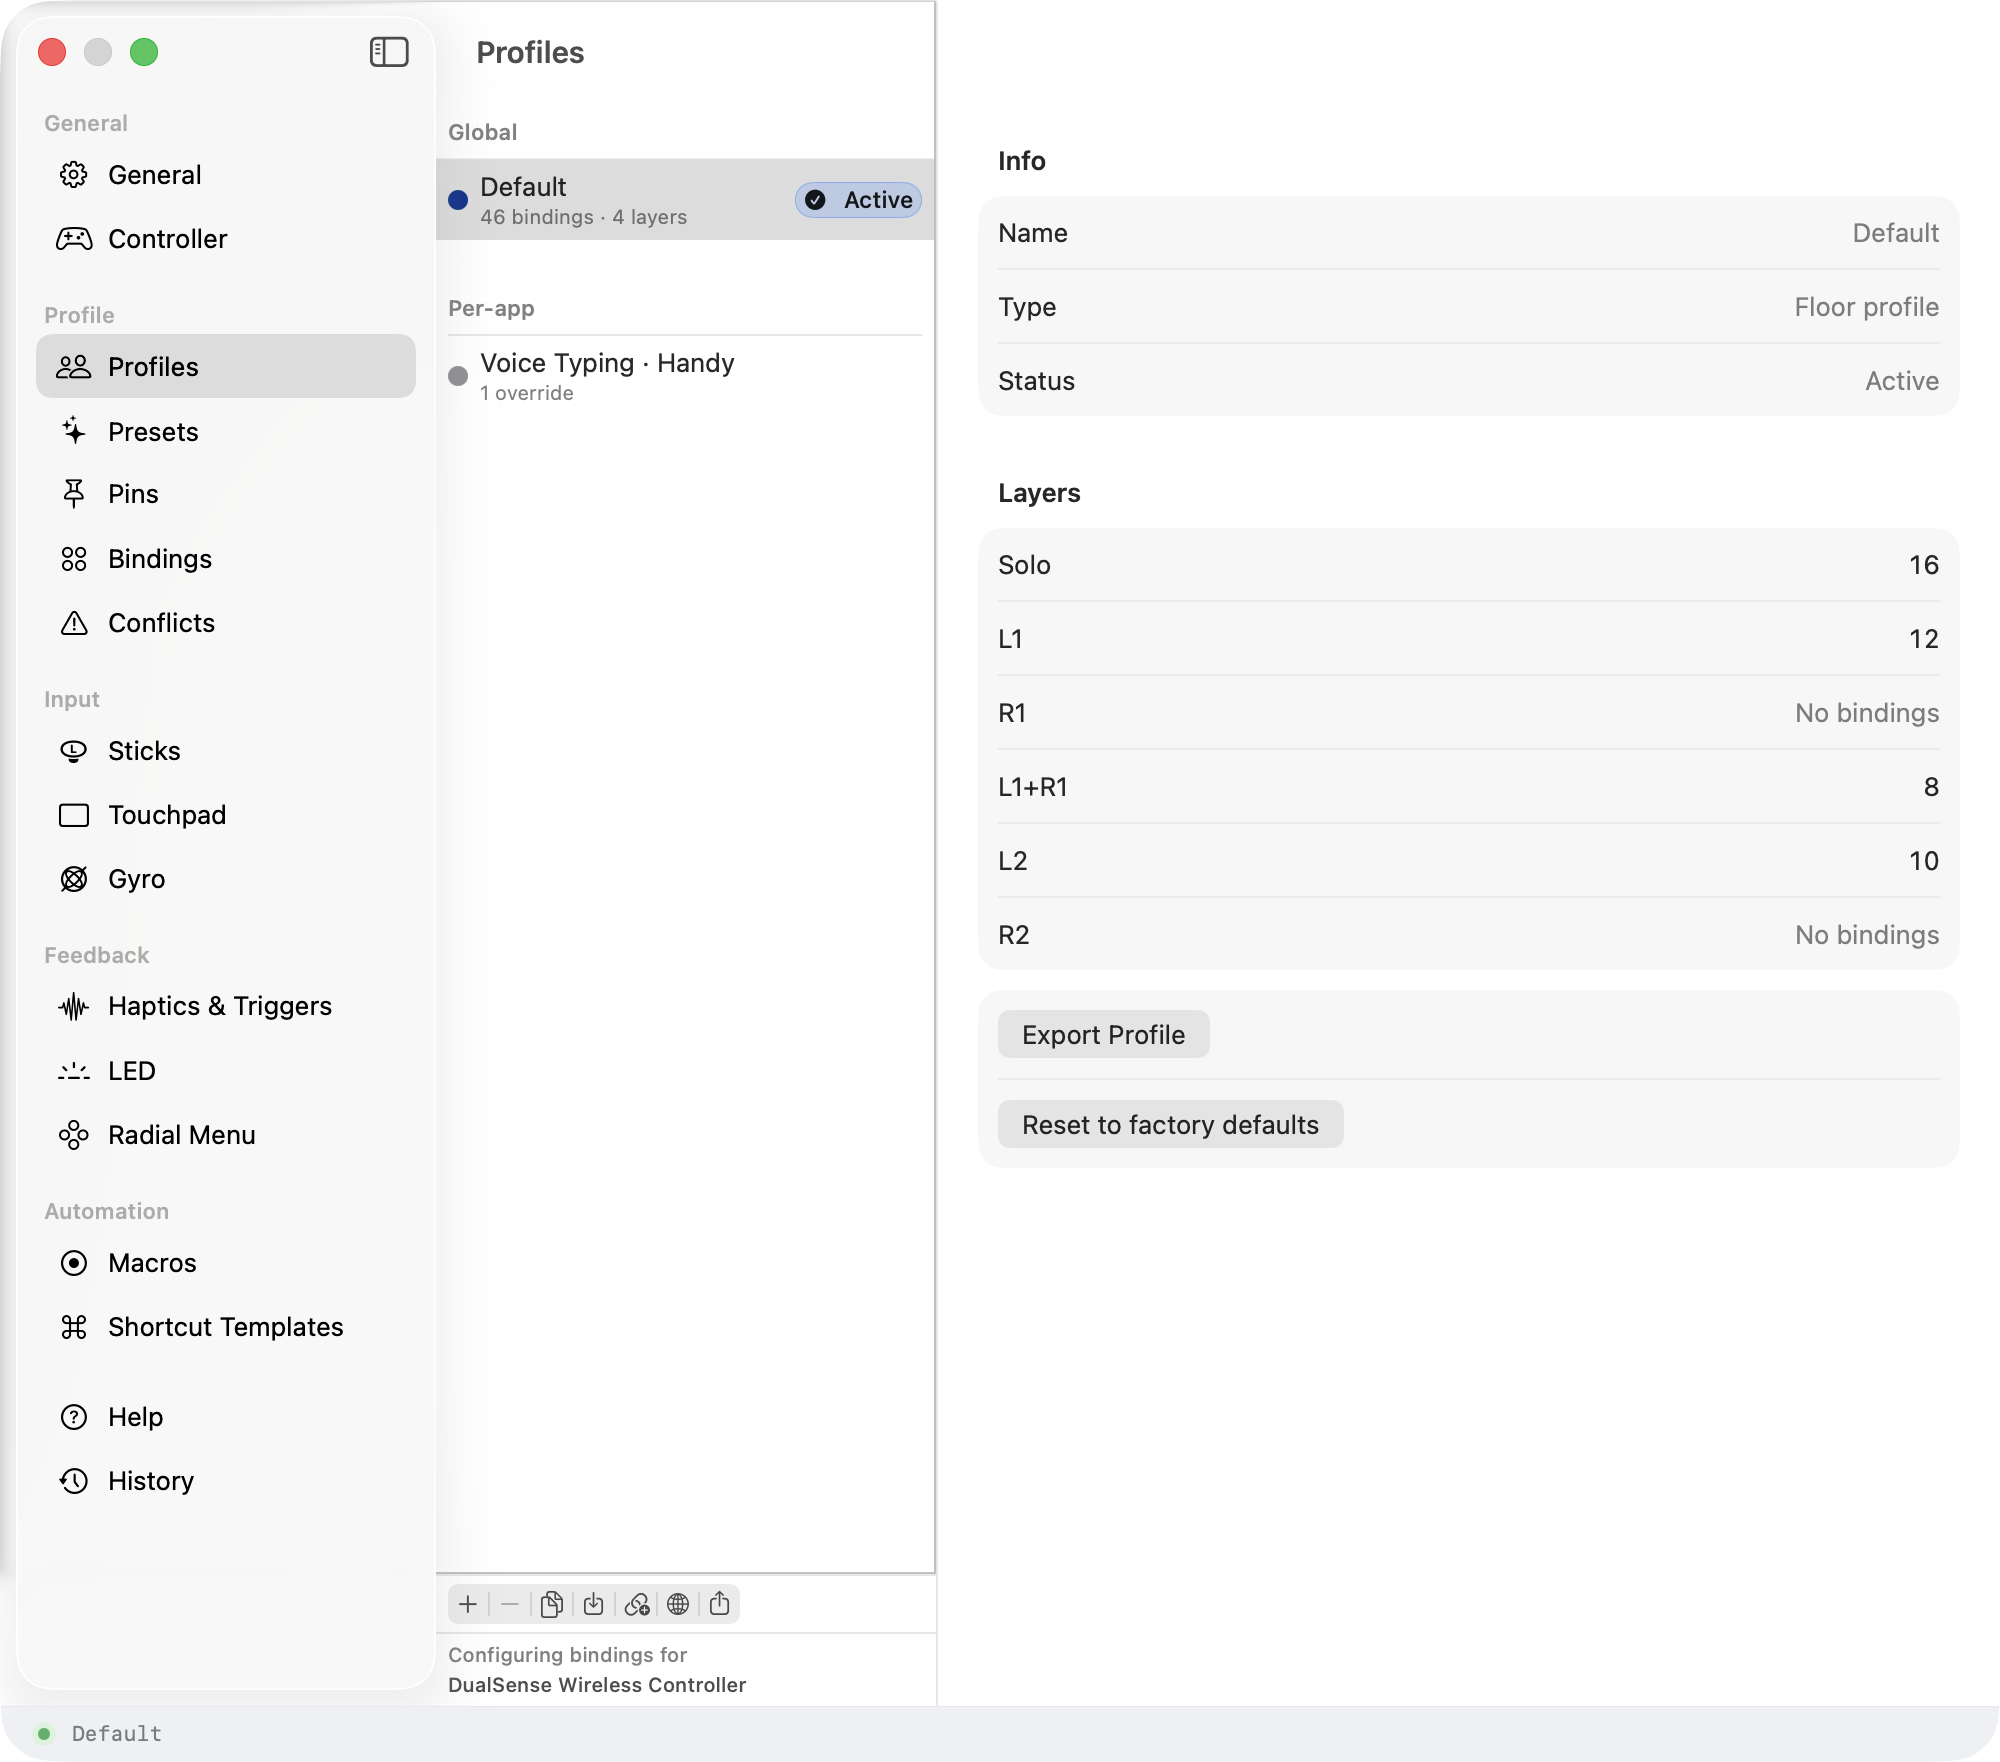
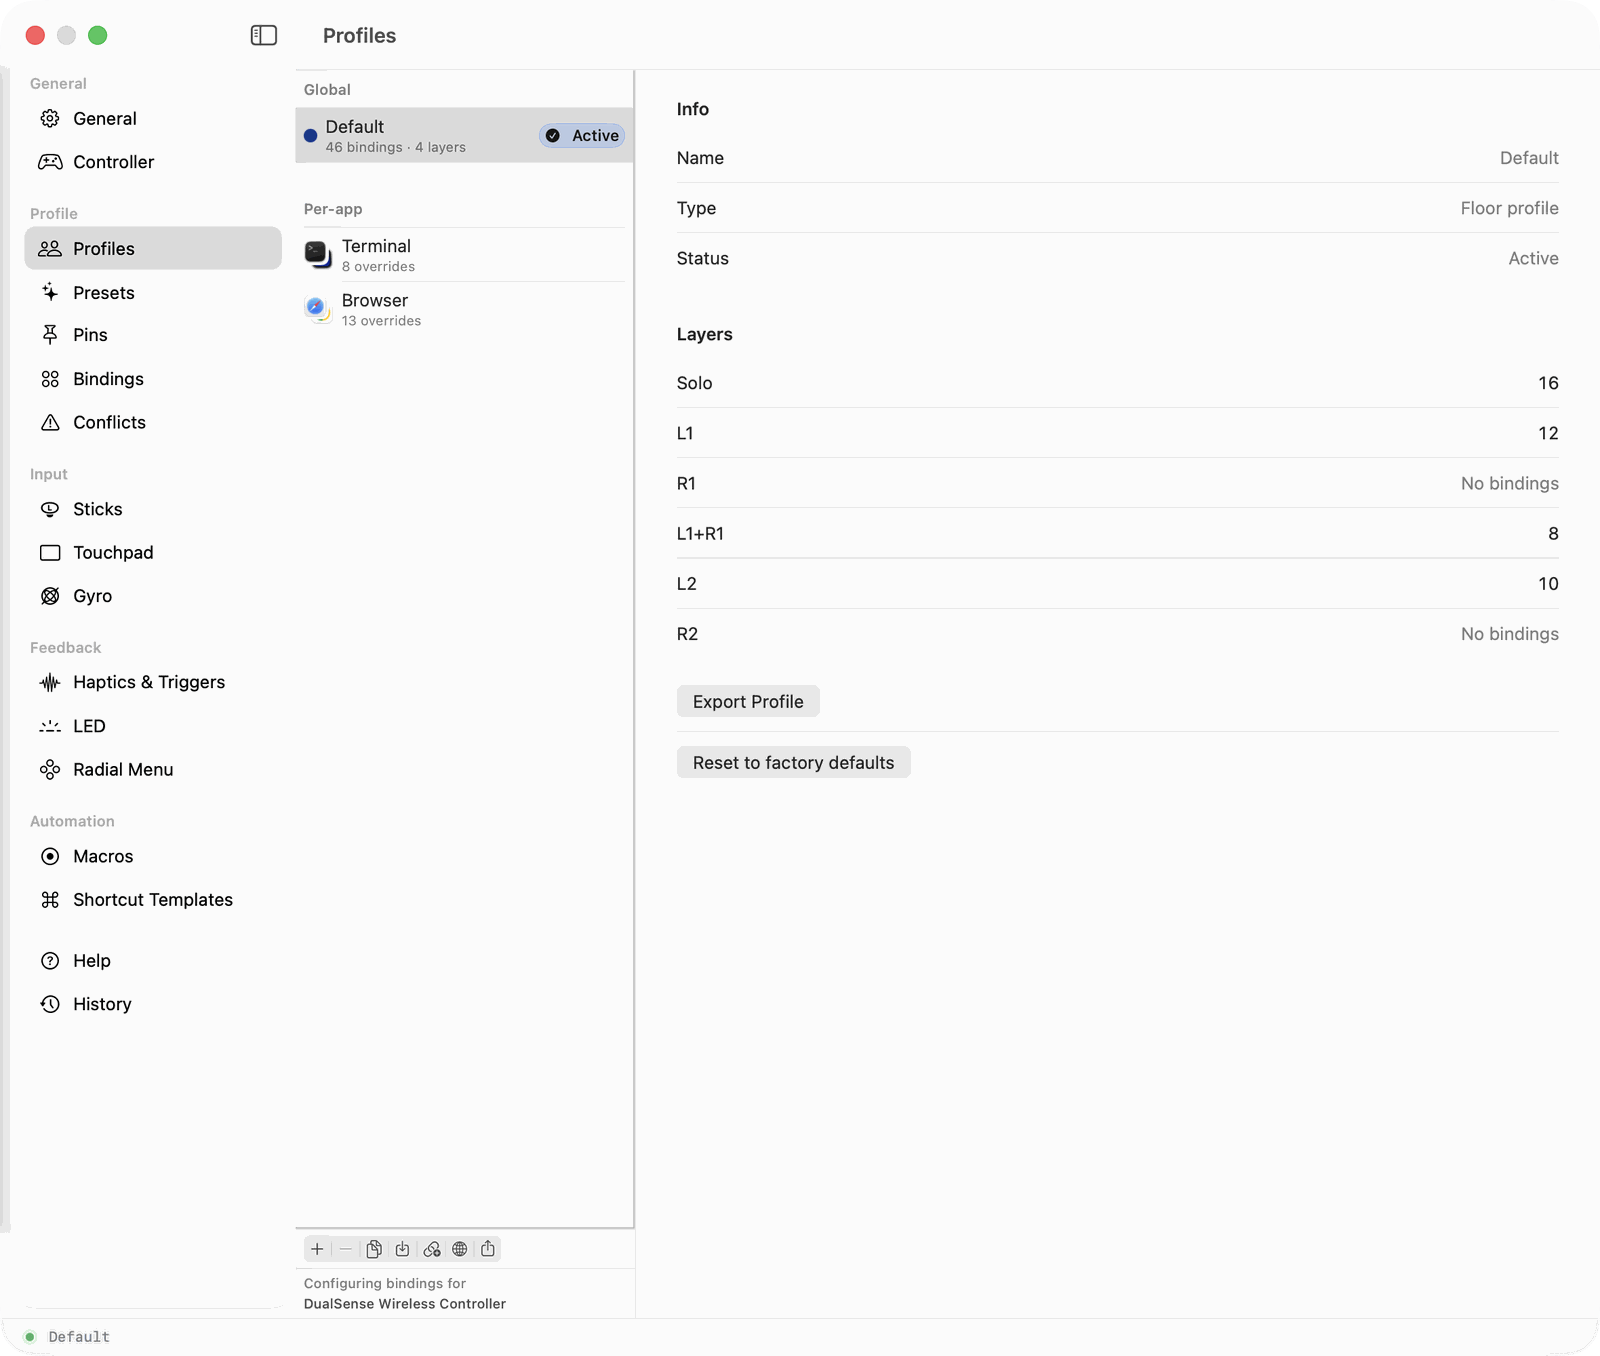
feat(site): dark mode + native dark screenshots, with accuracy fixes
Dark mode honours prefers-color-scheme: the tokenized palette flips, and
nav blur / MAS button / hairlines / the Steer compare card are patched
for the dark surface. Every screenshot now ships light + dark variants
via <picture> (browsers fetch only the matching set). Screenshots were
regenerated from the app in both appearances at 2x retina via the dev
build's URL-scheme capture flow, then resized + palette-quantized — the
full 14-image light+dark set is far smaller than the old light-only PNGs.

Accuracy corrections surfaced while auditing each caption against its
image:
- Trust section claimed "community presets" and "imported macros" beside
  a macro-timeline popover. Steer has no community store, and macros are
  recorded locally (not imported) — verified in the app code. Swapped the
  image to the app-presets gallery and rewrote the lede/caption/llms.txt:
  presets preview what they bind before you add them, imported profiles
  get a review step, every change is a restore point.
- Dropped "controller-as-MIDI" from the FAQ; ControllerKeys does not do
  MIDI (verified against kevintang.xyz, not just the internal audit). The
  other CK claims — Mac-to-Mac relay, Elite paddles, no adaptive triggers,
  Gumroad-only — all check out and stand.

Hero: removed the dotted cursor-trail and floating cursor (read as noise).

diff --git a/index.html b/index.html
@@ -149,24 +149,12 @@
 
       <!-- the bindings window inside the desktop -->
       <div class="hv-window">
-        <img src="assets/settings-buttons.png" alt="Steer bindings window" width="2000" height="1762" />
+        <picture>
+          <source srcset="assets/settings-buttons-dark.png" media="(prefers-color-scheme: dark)" />
+          <img src="assets/settings-buttons.png" alt="Steer bindings window" width="1600" height="1356" />
+        </picture>
       </div>
 
-      <!-- cursor trail rendered over the window -->
-      <svg aria-hidden="true" class="hv-trail" viewBox="0 0 400 100" preserveAspectRatio="none">
-        <defs>
-          <linearGradient id="tg" x1="0" x2="1">
-            <stop offset="0" stop-color="#fff" stop-opacity="0"/>
-            <stop offset="1" stop-color="#fff" stop-opacity="0.8"/>
-          </linearGradient>
-        </defs>
-        <path d="M0 80 Q80 10 200 50 T400 30" fill="none" stroke="url(#tg)" stroke-width="1.5" stroke-dasharray="2 3"/>
-      </svg>
-
-      <!-- cursor -->
-      <div class="hv-cursor">
-        <svg aria-hidden="true" viewBox="0 0 16 16" fill="#fff"><path d="M1.5 1.2l4.6 12.3 2.4-5.4 5.4-2.4z" stroke="#000" stroke-width="0.6" stroke-linejoin="round"/></svg>
-      </div>
     </div>
 
     <div class="hero-after">
@@ -201,7 +189,10 @@
       <!-- media tiles using real screenshots -->
       <div class="feature media">
         <div class="media-shot contain">
-          <img src="assets/radial-menu.png" alt="Radial app launcher" width="620" height="780" loading="lazy" />
+          <picture>
+            <source srcset="assets/radial-menu-dark.png" media="(prefers-color-scheme: dark)" />
+            <img src="assets/radial-menu.png" alt="Radial app launcher" width="620" height="780" loading="lazy" />
+          </picture>
         </div>
         <div class="media-text">
           <h3>Radial app launcher</h3>
@@ -211,7 +202,10 @@
 
       <div class="feature media">
         <div class="media-shot contain">
-          <img src="assets/daisy-wheel.png" alt="On-screen daisy-wheel keyboard" width="960" height="1080" loading="lazy" />
+          <picture>
+            <source srcset="assets/daisy-wheel-dark.png" media="(prefers-color-scheme: dark)" />
+            <img src="assets/daisy-wheel.png" alt="On-screen daisy-wheel keyboard" width="900" height="1012" loading="lazy" />
+          </picture>
         </div>
         <div class="media-text">
           <h3>On-screen keyboard</h3>
@@ -221,7 +215,10 @@
 
       <div class="feature media">
         <div class="media-shot contain">
-          <img src="assets/menubar-dropdown.png" alt="Menu bar dropdown" width="728" height="422" loading="lazy" />
+          <picture>
+            <source srcset="assets/menubar-dropdown-dark.png" media="(prefers-color-scheme: dark)" />
+            <img src="assets/menubar-dropdown.png" alt="Menu bar dropdown" width="720" height="530" loading="lazy" />
+          </picture>
         </div>
         <div class="media-text">
           <h3>Menu-bar resident</h3>
@@ -277,7 +274,7 @@
         <div class="sec-eyebrow">Trust</div>
         <h2>Nothing happens without you seeing it first.</h2>
         <p class="sec-lede">
-          Steer shows you exactly what a community preset does before you accept it, and keeps a full restore history so every change is reversible. Imported macros and presets land in a review popover, not directly in your bindings.
+          Add a built-in app preset and you see exactly what it binds before it applies. Import a profile and it lands in a review step first, never straight into your bindings. Every change is a restore point you can roll back.
         </p>
         <div class="trust-pills">
           <span class="trust-pill">
@@ -296,8 +293,11 @@
       </div>
       <div>
         <div class="trust-shot">
-          <img src="assets/popover-macro-row.png" alt="Macro import popover with row-by-row diff" width="2560" height="1854" loading="lazy" />
-          <div class="trust-caption">Macro import — review every step before binding</div>
+          <picture>
+            <source srcset="assets/presets-dark.png" media="(prefers-color-scheme: dark)" />
+            <img src="assets/presets.png" alt="App presets gallery showing what each preset binds before you add it" width="1600" height="1356" loading="lazy" />
+          </picture>
+          <div class="trust-caption">App presets — preview what each one binds before you add it</div>
         </div>
       </div>
     </div>
@@ -361,14 +361,20 @@
         <p>Conflicts get their own page; if two bindings collide, you'll see it before you exit.</p>
       </div>
       <div class="wf-shot">
-        <img src="assets/settings-buttons.png" alt="Bindings settings pane" width="2000" height="1762" loading="lazy" />
+        <picture>
+          <source srcset="assets/settings-buttons-dark.png" media="(prefers-color-scheme: dark)" />
+          <img src="assets/settings-buttons.png" alt="Bindings settings pane" width="1600" height="1356" loading="lazy" />
+        </picture>
         <div class="wf-meta"><span>Settings → Bindings</span><span class="sep">·</span><span>46 bindings · 6 layers</span></div>
       </div>
     </div>
 
     <div class="workflow reverse">
       <div class="wf-shot">
-        <img src="assets/settings-sticks.png" alt="Sticks settings pane" width="2000" height="1762" loading="lazy" />
+        <picture>
+          <source srcset="assets/settings-sticks-dark.png" media="(prefers-color-scheme: dark)" />
+          <img src="assets/settings-sticks.png" alt="Sticks settings pane" width="1600" height="1356" loading="lazy" />
+        </picture>
         <div class="wf-meta"><span>Settings → Sticks</span><span class="sep">·</span><span>shaped curves · per-axis</span></div>
       </div>
       <div>
@@ -383,7 +389,10 @@
         <p>Steer auto-switches profiles when you change frontmost app. Add a per-app override or leave Default in charge.</p>
       </div>
       <div class="wf-shot">
-        <img src="assets/settings-profiles.png" alt="Profiles settings pane" width="2000" height="1762" loading="lazy" />
+        <picture>
+          <source srcset="assets/settings-profiles-dark.png" media="(prefers-color-scheme: dark)" />
+          <img src="assets/settings-profiles.png" alt="Profiles settings pane" width="1600" height="1356" loading="lazy" />
+        </picture>
         <div class="wf-meta"><span>Settings → Profiles</span><span class="sep">·</span><span>Default + per-app overrides</span></div>
       </div>
     </div>
@@ -419,7 +428,7 @@
       </div>
       <div class="faq-item">
         <h3>What does it not do?</h3>
-        <p>Mac-to-Mac relay, Xbox Elite firmware paddle modes, controller-as-MIDI. If those are deal-breakers, ControllerKeys is the right pick.</p>
+        <p>Mac-to-Mac relay and Xbox Elite firmware paddle modes. If those are deal-breakers, ControllerKeys is the right pick.</p>
       </div>
     </div>
   </div>

diff --git a/style.css b/style.css
@@ -53,6 +53,10 @@ body {
 a { color: inherit; text-decoration: none; }
 a:hover { color: var(--accent); }
 
+/* <picture> wraps the screenshots for light/dark sources; keep it transparent
+   to layout so the existing img rules (sizing, object-fit) apply unchanged. */
+picture { display: contents; }
+
 /* Keyboard focus — visible ring on every interactive element (mouse users
    keep a clean UI via :focus-visible). */
 a:focus-visible,
@@ -460,23 +464,6 @@ h1.headline {
     0 0 0 0.5px rgba(0,0,0,0.5);
 }
 .hv-window img { width: 100%; height: auto; display: block; }
-/* cursor + trail laid on top of the window */
-.hv-cursor {
-  position: absolute;
-  top: 56%; left: 60%;
-  width: 18px; height: 18px;
-  z-index: 6;
-  filter: drop-shadow(0 1px 2px rgba(0,0,0,0.4));
-}
-.hv-cursor svg { width: 100%; height: 100%; }
-.hv-trail {
-  position: absolute;
-  top: 50%; left: 12%;
-  width: 50%; height: 18%;
-  pointer-events: none;
-  z-index: 5;
-}
-.hv-trail svg { width: 100%; height: 100%; }
 .hero-after {
   display: flex; gap: 28px; flex-wrap: wrap;
   margin-top: 32px;
@@ -635,7 +622,7 @@ h1.headline {
   border: 0.5px solid var(--hairline);
   padding: 26px;
 }
-.compare-card.us { border: 1px solid var(--accent); background: #fff; }
+.compare-card.us { border: 1px solid var(--accent); background: var(--surface); }
 .compare-head {
   display: flex; align-items: center; gap: 10px;
   margin-bottom: 4px;
@@ -835,4 +822,37 @@ h1.headline {
   .features { grid-template-columns: 1fr; }
   nav.top ul { display: none; }
   .landing section { padding: 56px 0; }
+}
+
+/* ===================== dark mode =====================
+   Honours the system appearance. Most of the site adapts via the token
+   overrides below; the handful of rules after them patch colours that were
+   hardcoded outside the token system (nav blur, the black MAS button,
+   screenshot framing). Each screenshot ships a native dark-appearance
+   capture via <picture>; the ring/tile rules below just seat them cleanly
+   on the dark page. */
+@media (prefers-color-scheme: dark) {
+  :root {
+    --bg: #161618;
+    --bg-alt: #1E1E21;
+    --surface: #242428;
+    --ink: #F5F5F7;
+    --ink-2: #C2C2C9;
+    --ink-3: #9A9AA1;
+    --hairline: rgba(255,255,255,0.14);
+    --hairline-soft: rgba(255,255,255,0.07);
+    --accent-soft: rgba(10,132,255,0.18);
+  }
+  /* translucent nav bars were tinted to the light bg colour */
+  nav.top, nav { background: rgba(22,22,24,0.80); }
+  /* black App Store button needs an edge to separate from the dark page */
+  .btn.secondary { background: #0D0D0F; border-color: rgba(255,255,255,0.16); }
+  .btn.secondary:hover { background: #000; }
+  /* a hairline ring so screenshots sit as deliberate windows on dark */
+  .wf-shot img, .feature.media .media-shot { box-shadow: 0 0 0 0.5px rgba(255,255,255,0.10); }
+  /* keep the contained transparent art legible on a darker tile */
+  .feature.media .media-shot {
+    background:
+      radial-gradient(140% 120% at 50% 0%, #2E2E33 0%, #232327 60%, #1C1C20 100%);
+  }
 }
